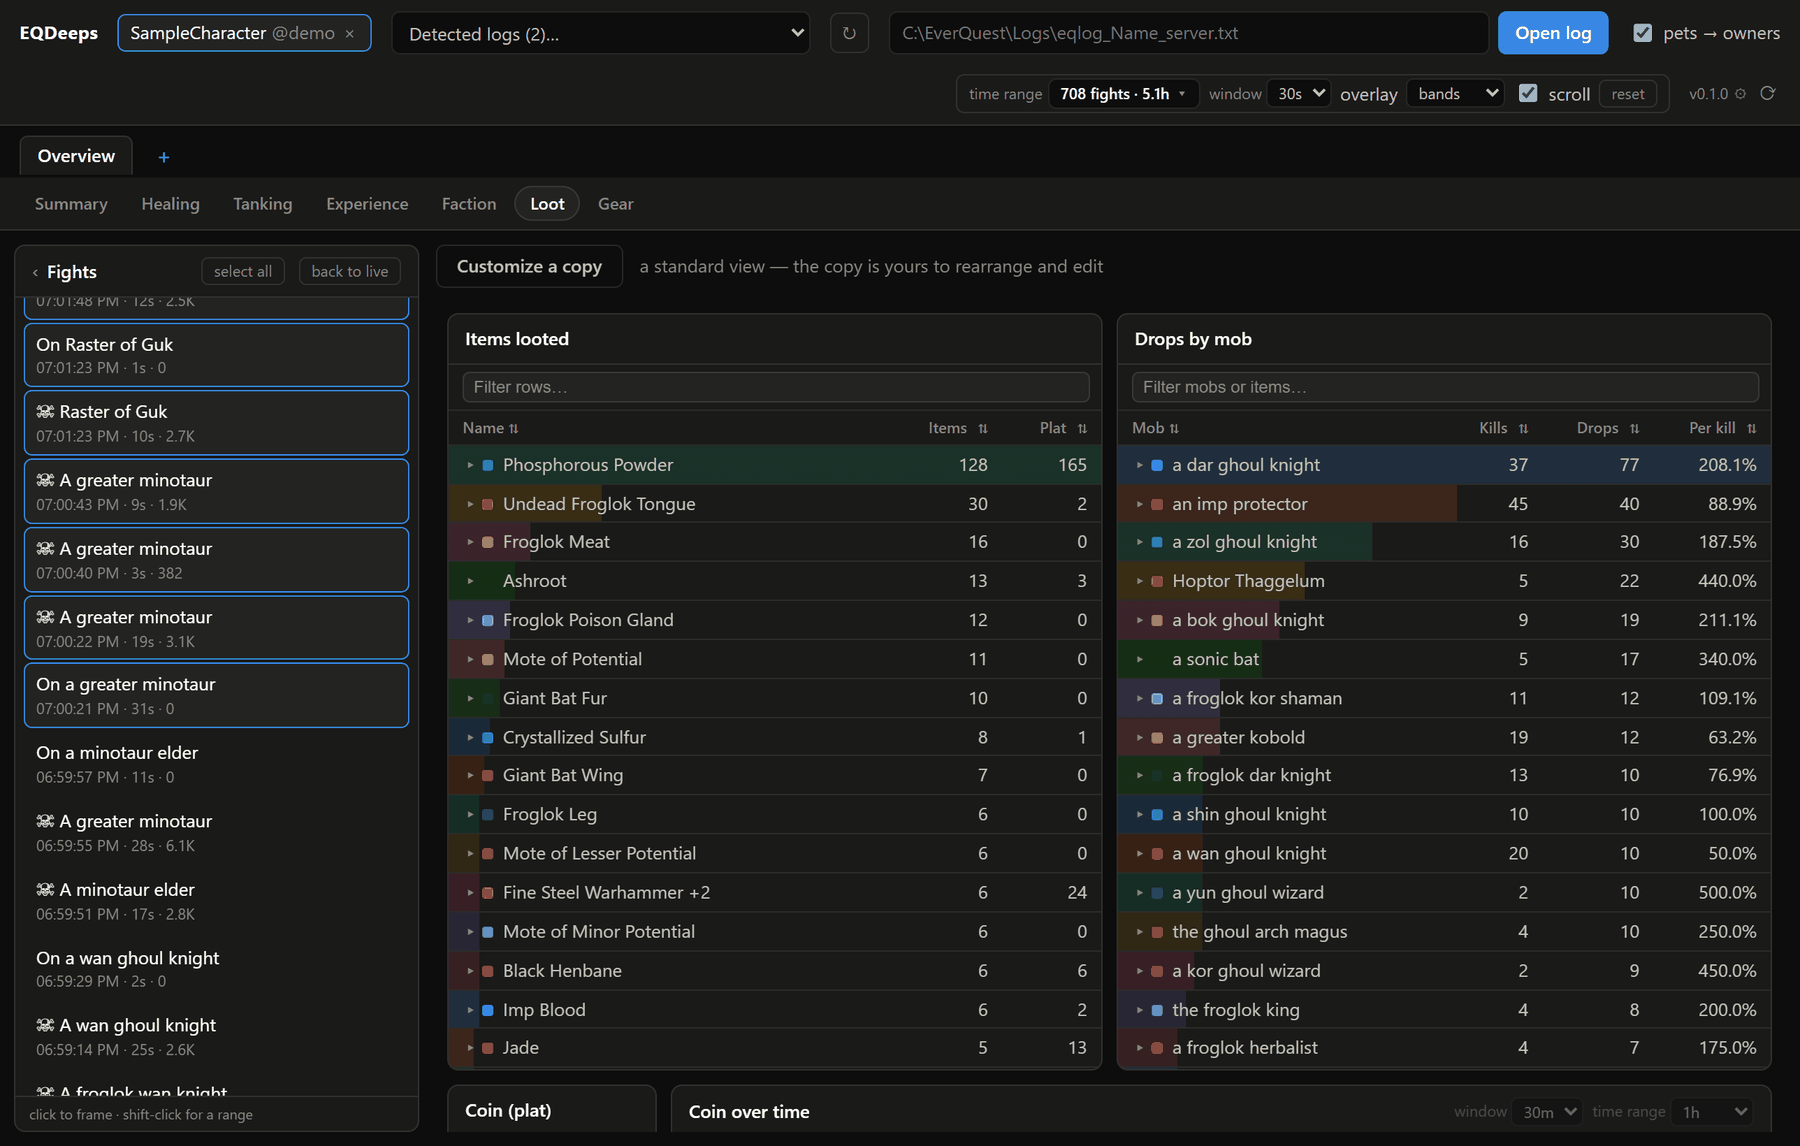
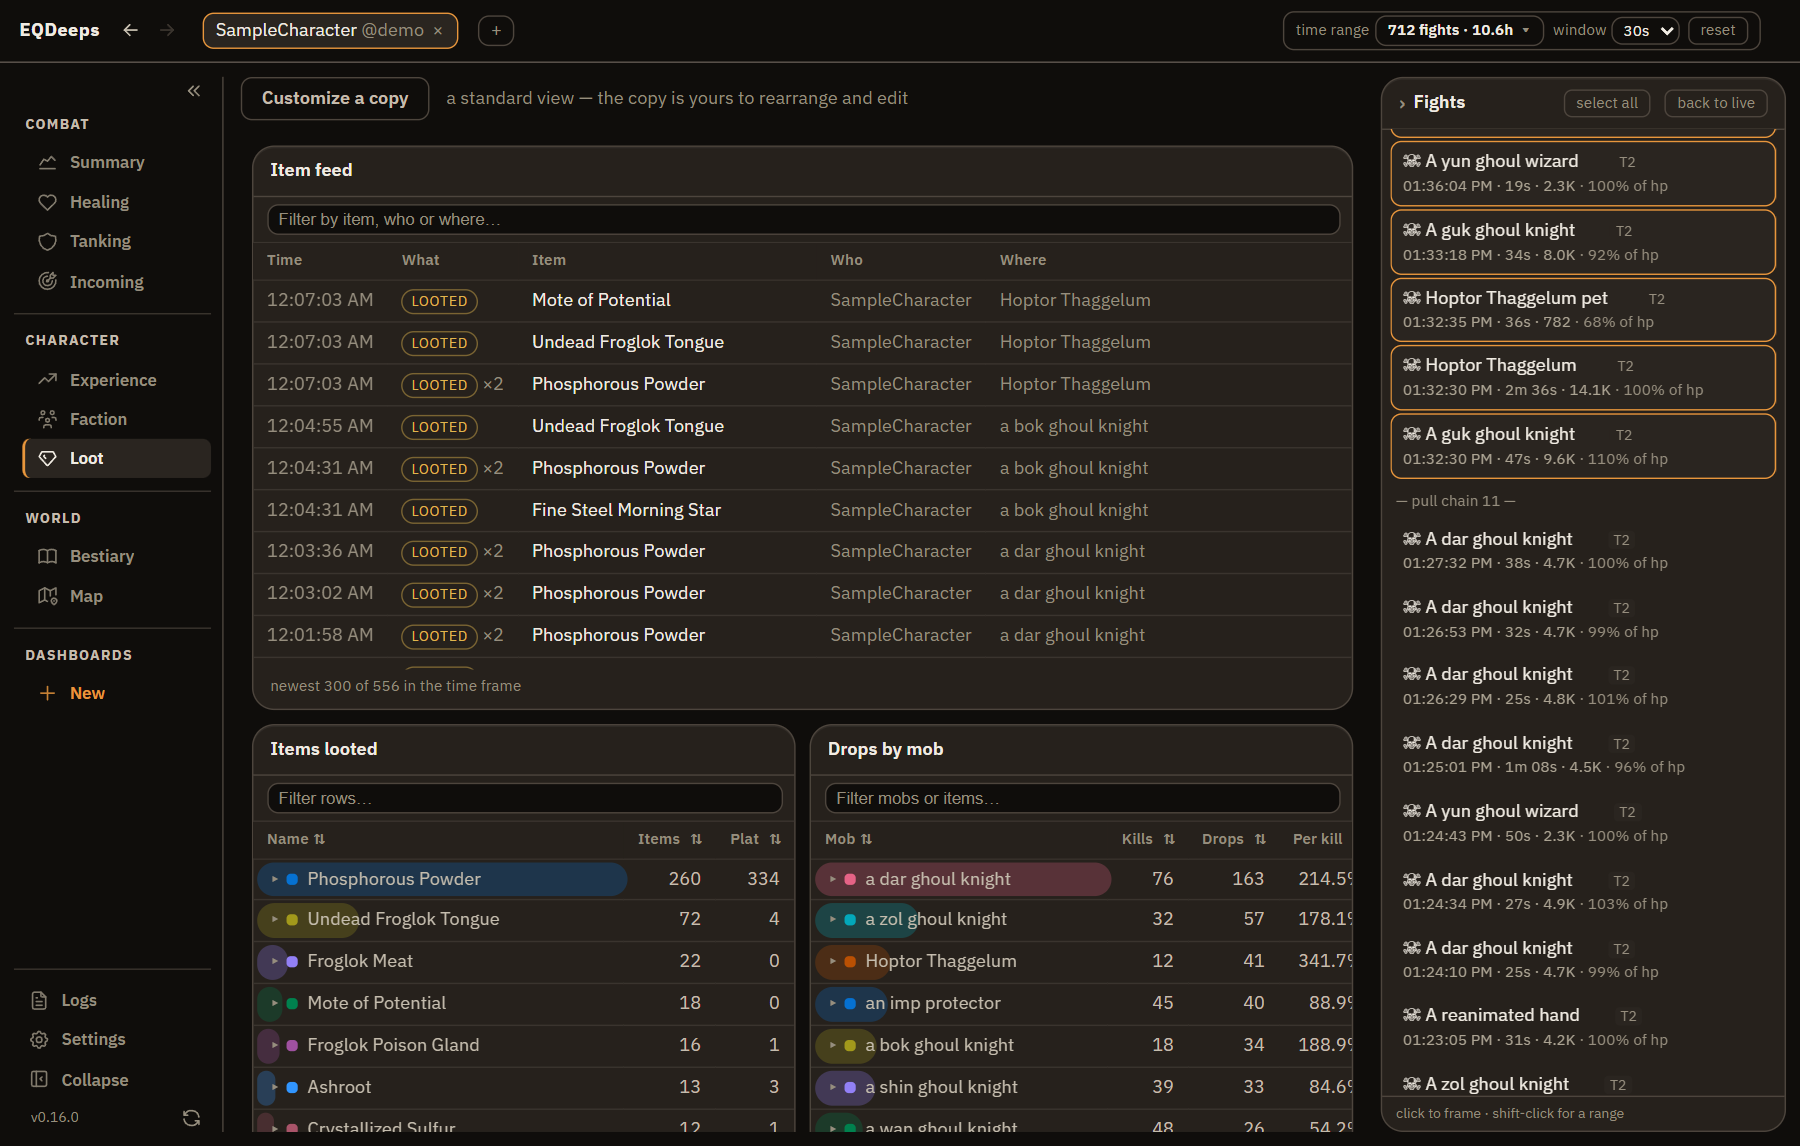
Retake the README screenshots, and add the four views that had none
The seven shots in docs/media predated the grouped rail, the version in its
foot, and every view shipped since v0.13 — the README showed no Incoming,
Map, World or Bestiary at all. All eleven are retaken here against the same
sample log, framed on the same evening, and the README's "What it looks
like" table gains a row for Incoming beside Bestiary and one for Map beside
World, with captions in the voice of the rest.

The script that takes them had drifted further than the pictures. It called
a subTab() helper that no longer exists, and its rail selector used
`:text-is`, which matches the smallest element with that text — since ADR-017
that is the label span inside the button, not the button, so it matched
nothing. It also picked the evening by clicking rows 9 and 716 of the fight
list, which v0.16.0 made a windowed list that only renders the rows in view.
The rewrite frames by wall clock instead (13:30 to 00:10 on the first day,
the same stretch), scrolls the windowed list to a fight by summing the strides
above it and finds the row by what it shows, and walks every view the rail
has, waiting on the things that are genuinely slow the first time — the
Map's first read, the World's first graph build, the Bestiary's first fetch,
and the level bands behind the World's "levels" button, whose first ask
computes from the site and outlived a fixed settle.

Two things about the session. The sample is deliberately kept out of the
[…]

Changed region(s): [[0.0, 0.0, 0.9956, 1.0], [0.7778, 0.6414, 0.9333, 0.6719], [0.3733, 0.8551, 0.4044, 0.8857]]

diff --git a/README.md b/README.md
@@ -10,7 +10,12 @@ A modern, real-time EverQuest combat-log analytics app — a clean-room successo
 
 Every shot below is the bundled sample log — two days of sanitized real play
 that ships inside the app — framed on one evening of it. The app offers it on
-first run, so none of this needs EverQuest installed to reproduce.
+first run, so none of this needs EverQuest installed to reproduce, apart from
+the Map and World, which draw the maps an install already has. One footnote:
+the demo is deliberately kept out of the learned mob indexes, so on the sample
+itself the Bestiary's measured tables and Incoming's lower half stay empty until
+you open a log of your own — the shots open a copy of the sample as an ordinary
+log to show them filled.
 
 | | |
 |---|---|
@@ -18,6 +23,10 @@ first run, so none of this needs EverQuest installed to reproduce.
 | **Healing** — rankings carrying overheal and crit alongside the raw total, who received it, and which spells did the work. | **Tanking** — damage taken with the defensive rates beside it, the mobs that hit hardest, and every death in the frame. |
 | [<img src="docs/media/loot.png" alt="Loot view">](docs/media/loot.png) | [<img src="docs/media/experience.png" alt="Experience view">](docs/media/experience.png) |
 | **Loot** — what dropped and what it sold for, joined to mob deaths so "per kill" is an answer rather than an estimate. | **Experience** — XP and AA over time with the rate per hour, measured against time actually played rather than the calendar. |
+| [<img src="docs/media/incoming.png" alt="Incoming view">](docs/media/incoming.png) | [<img src="docs/media/bestiary.png" alt="Bestiary view">](docs/media/bestiary.png) |
+| **Incoming** — the swings you took, in the order they landed, above what this server's mobs hit for — learned per zone, per difficulty tier and per your level, because how hard something hits is a fact about the pairing. | **Bestiary** — every mob in the game, opening on the ones you have killed; a mob's page puts what EQLBase lists beside what your own logs measured for it at each difficulty tier, with a plain reading of how they compare. |
+| [<img src="docs/media/map.png" alt="Map view">](docs/media/map.png) | [<img src="docs/media/world.png" alt="World view">](docs/media/world.png) |
+| **Map** — the zone you are standing in, drawn from the map files your own install already has: exits clickable, the Mobs tab naming who stands there, and a right-click away from the world. | **World** — every zone and how they join up, built from the maps' own connection labels; search it, route across it, trim it to your server's era, and label each zone with the levels it is for. |
 | [<img src="docs/media/dashboard.png" alt="A custom dashboard">](docs/media/dashboard.png) | [<img src="docs/media/query-builder.png" alt="The panel query builder">](docs/media/query-builder.png) |
 | **Custom dashboards** — clone a standard view or start from nothing; drag panels, resize them, export one as a file and import it somewhere else. | **Query builder** — every panel is a query: source, scope, trim, grouping, columns, exclusions. The standard views are the same thing, written in code. |
 
